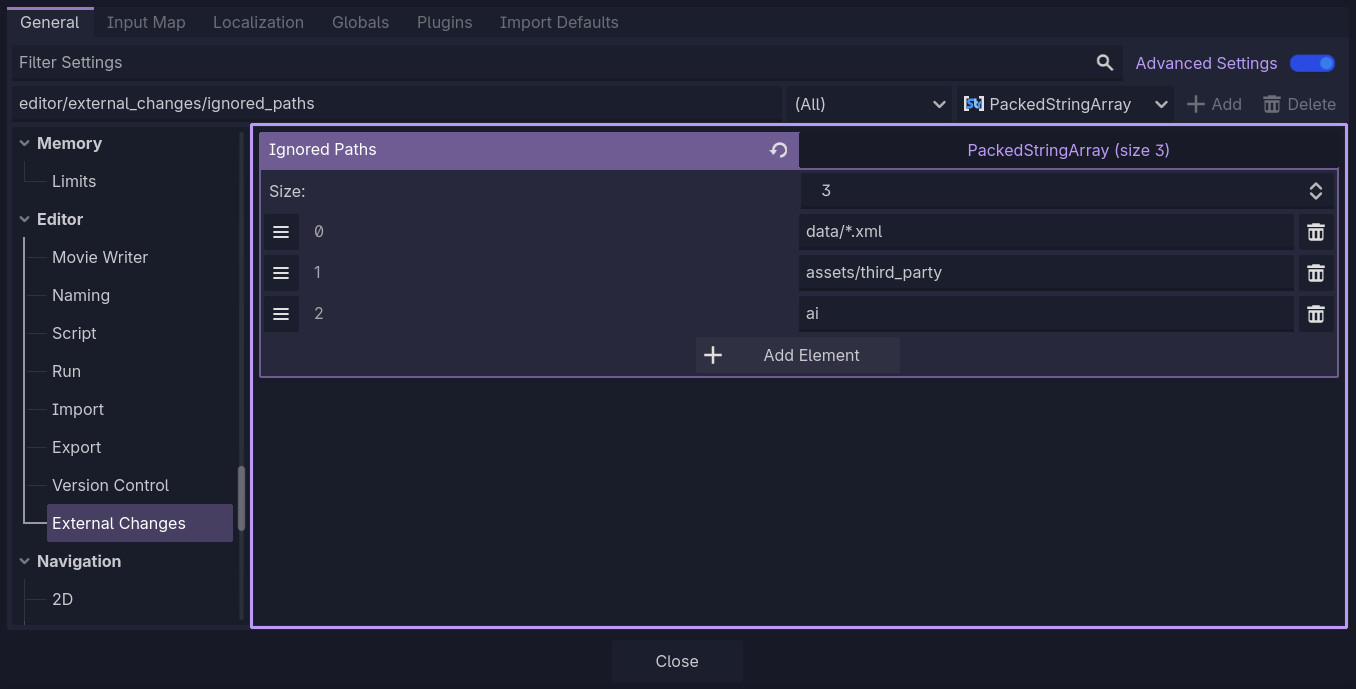
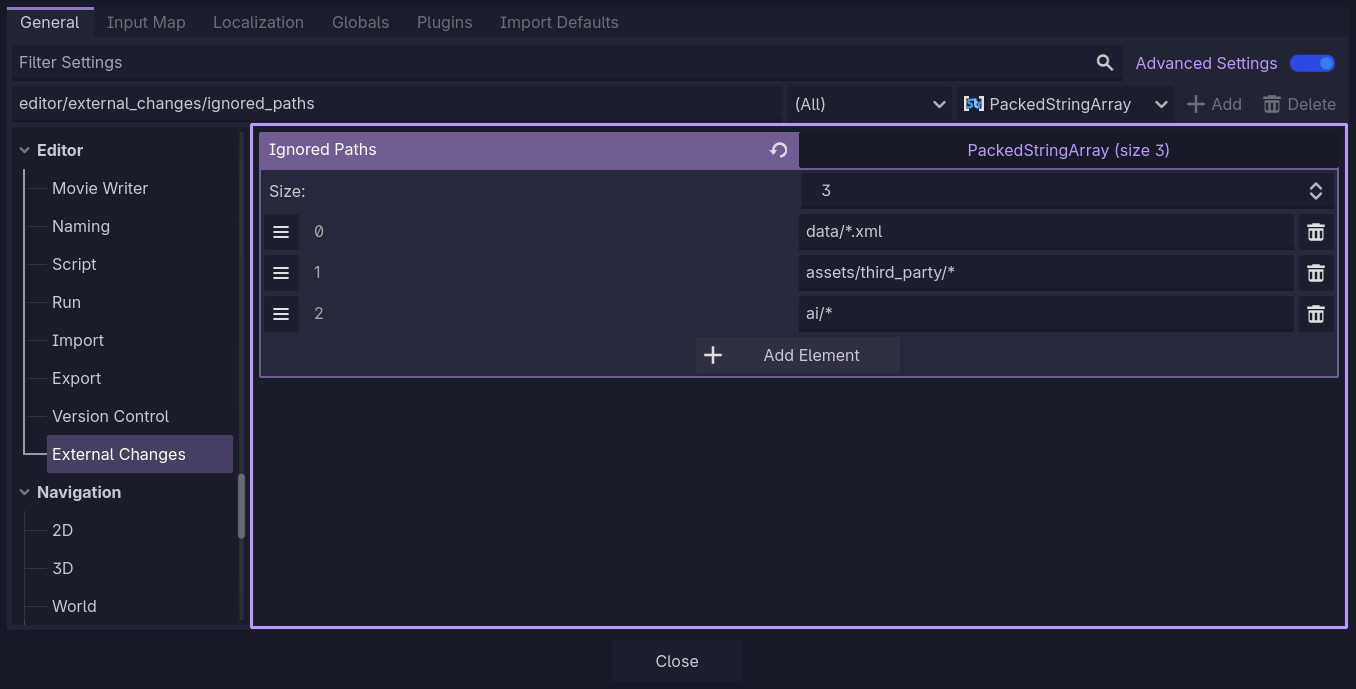
update

diff --git a/Blazium Game Engine/Release 0.6.X/Release 0.6.X.md b/Blazium Game Engine/Release 0.6.X/Release 0.6.X.md
@@ -21,9 +21,9 @@ continuing to improve engine stability and runtime performance.
 ### MCP Integration
 ![](../JustAMCP%20Module/assets/mcp_prompts.jpg)
 
-This release adds **MCP** support through the **JustAMCP** module, improving interoperability with external tools, automation workflows, and
-AI-assisted development pipelines.
-This connects the editor to external utilities, automation tools, and development environments.
+This release adds an **MCP** server to the editor through the **JustAMCP** module.
+Integrate your favourite AI agent into you workflow with up to *308 tools* available to agents
+to create and modify your project.
 
 Learn more about the MCP module in the
 [dedicated article](https://www.indiedb.com/engines/blazium-engine/news/mcp-module).
